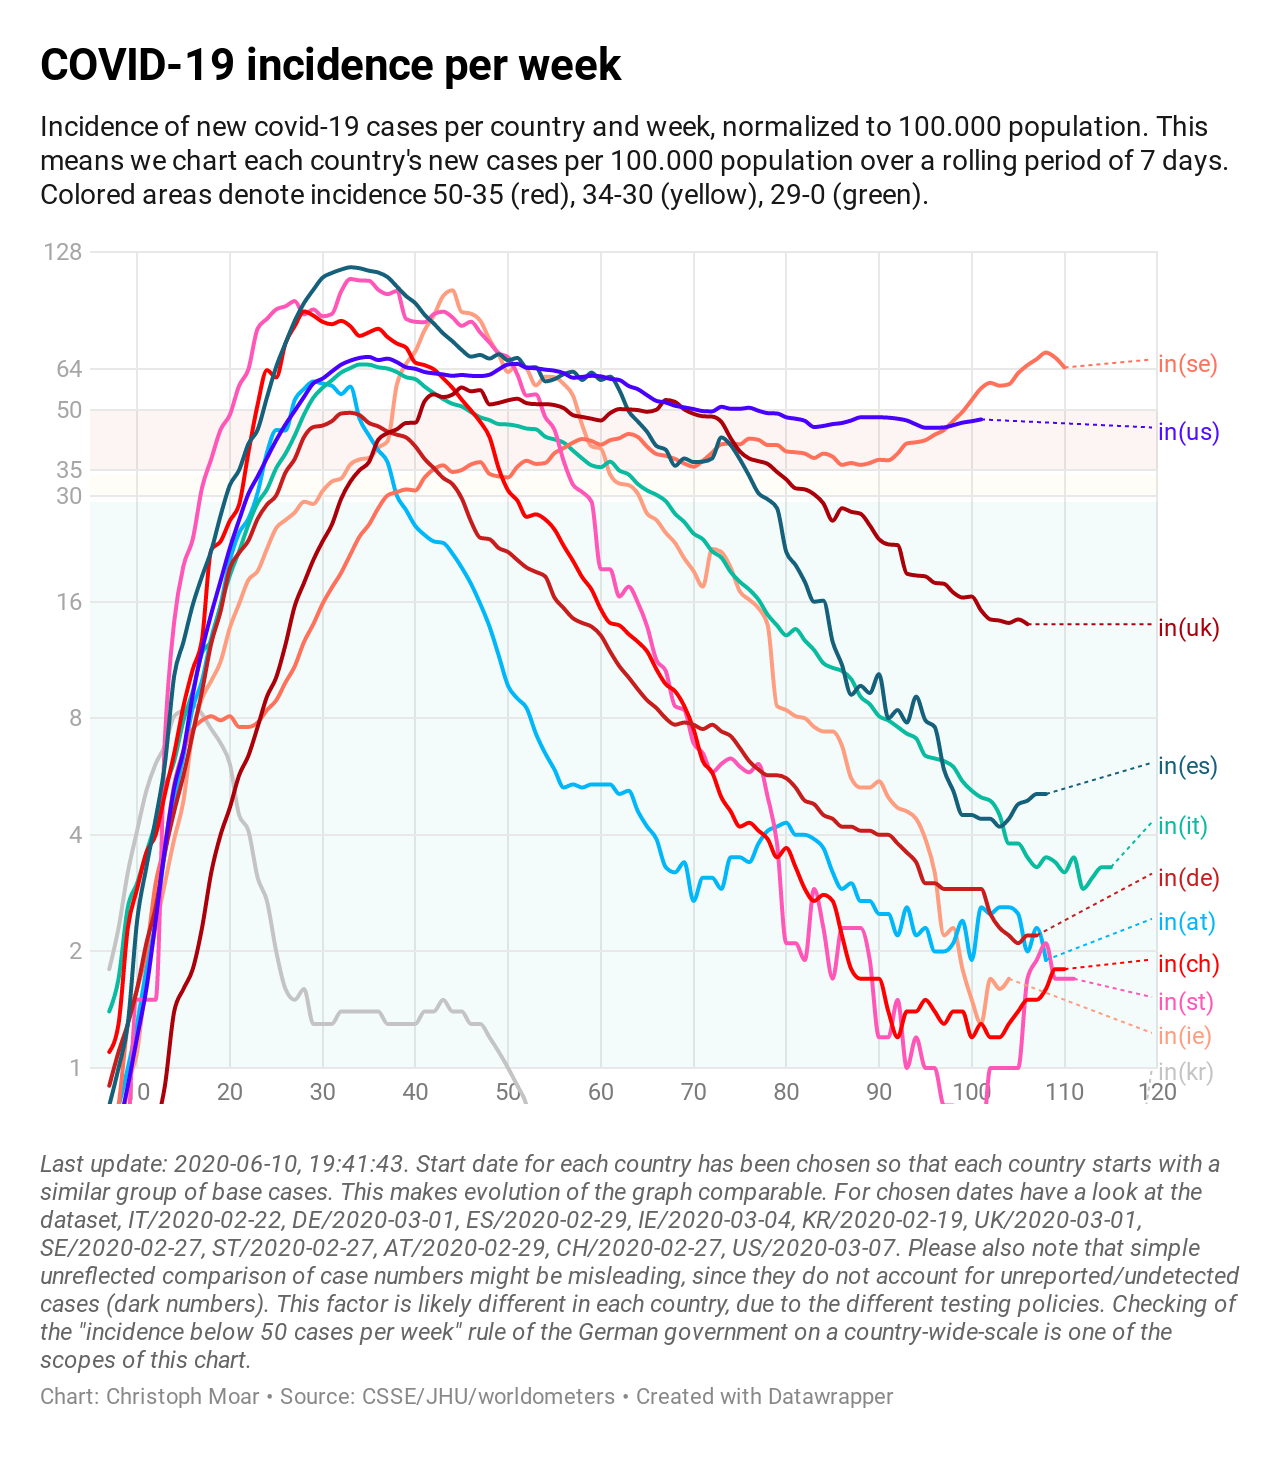
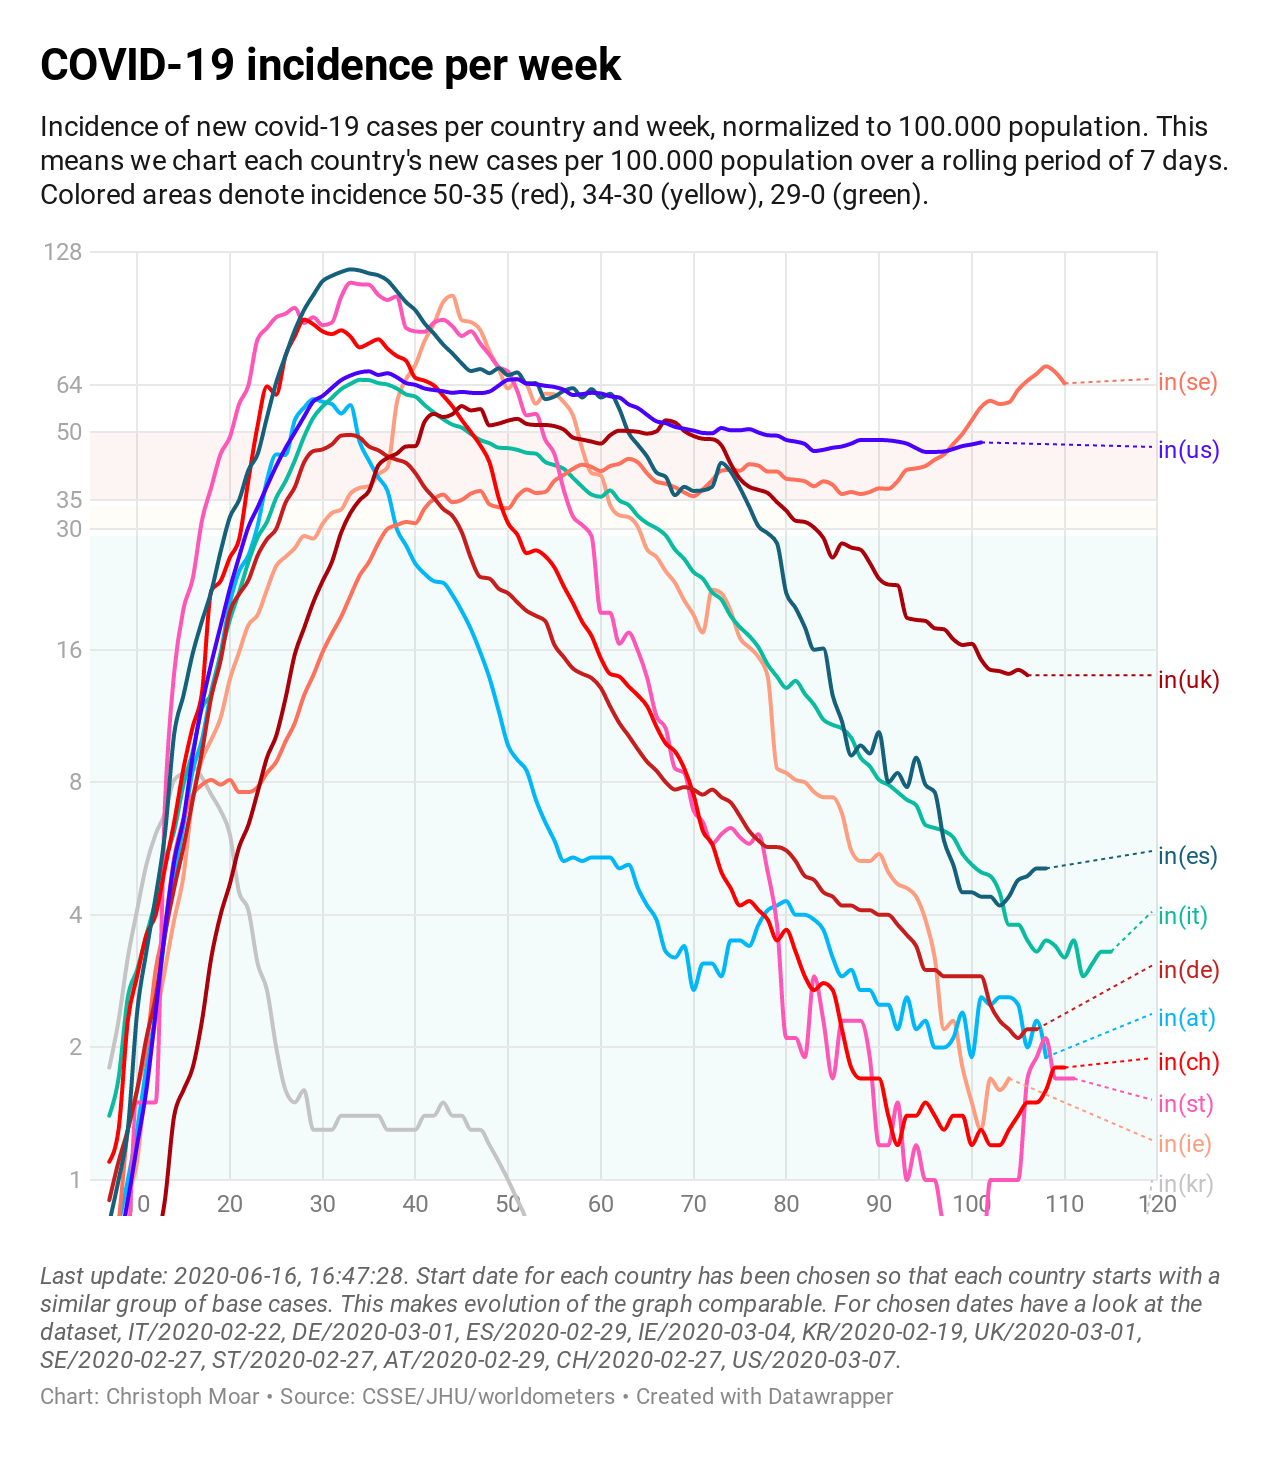
new images

diff --git a/bin/update.js b/bin/update.js
@@ -7,7 +7,6 @@ const text1 = 'Start date for each country has been chosen so that each country 
 const text2 = 'Please also note that comparing total recorded case numbers might be misleading, since they do not account for unreported/undetected cases (dark numbers). This factor is likely different in each country, due to the different testing policies. Comparing slope changes - and not total figures - is the main point in this chart.'
 const text3 = 'This charts the new confirmed cases (nx_avg) of covid-19 vs. the total confirmed cases (tx) to date, normalized to an identical population of 60.3 millions, both on logarithmic scales. When plotted in this way, exponential growth is represented as a straight line that slopes upwards. Notice that almost all countries follow a very similar path of exponential growth. For this approach of visualization, check out details and interactive chart at aatishb.com/covidtrends.'
 const text4 = 'Die grün strichlierte Linie stellt das Verhältnis zwischen den täglichen neuen Fällen (newPositiveTested) und den neu getesteten Personen (newNumberTestedPeople) in Prozent dar, es wird ein gleitender Durchschnitt über vier Tage angewendet. Unter der Annahme unveränderter Testvorgaben (=wer wird getestet) dient diese Darstellung zur Einschätzung wieviel Prozent der neu Getesteten positiv sind. Anders formuliert, man beobachtet dabei relative und nicht absolute Zahlen. Die absoluten Werte unterliegen naturgemäß deutlichen Schwankungen und beinhalten auch die Tests, die an den wieder Gesundeten ausgeführt werden. Die blau strichlierte Linie (newPos/newNumberTests) stellt dasselbe Verhältnis, aber zur Zahl der durchgeführten Tests dar.'
-const text5 = 'Please also note that simple unreflected comparison of case numbers might be misleading, since they do not account for unreported/undetected cases (dark numbers). This factor is likely different in each country, due to the different testing policies. Checking of the "incidence below 50 cases per week" rule of the German government on a country-wide-scale is one of the scopes of this chart.'
 
 const DW_TOKEN = process.env.DW_TOKEN
 
@@ -87,30 +86,30 @@ async function download(url, filename) {
 function main() {
   console.log(`token [${DW_TOKEN}]`)
 
+  update('https://api.datawrapper.de/v3/charts/1Cdh3/data', '../dataset-01/covid19-normalized-noheader.CSV')
   update('https://api.datawrapper.de/v3/charts/njNtn/data', '../dataset-01/covid19-normalized-noheader.CSV')
   update('https://api.datawrapper.de/v3/charts/Zojai/data', '../dataset-01/covid19-normalized-noheader.CSV')
   //updateurl('https://api.datawrapper.de/v3/charts/HWIBU/data', 'https://github.com/abaumg/covid19-bz-scraper/raw/master/data/covid19_bz_detailed.csv', '../dataset-01/covid19_bz_detailed.csv')
   update('https://api.datawrapper.de/v3/charts/HWIBU/data','../dataset-01/covid19_bz_detailed.csv')
   update('https://api.datawrapper.de/v3/charts/4sti7/data', '../dataset-01/covid19-normalized-timeseries.CSV')
-  update('https://api.datawrapper.de/v3/charts/1Cdh3/data', '../dataset-01/covid19-normalized-noheader.CSV')
   
+  timestamp('https://api.datawrapper.de/v3/charts/1Cdh3', `${text1}`)
   timestamp('https://api.datawrapper.de/v3/charts/njNtn', `${text1} ${text2}`)
   timestamp('https://api.datawrapper.de/v3/charts/Zojai', `${text1}`)
   timestamp('https://api.datawrapper.de/v3/charts/HWIBU', `${text4}`)
   timestamp('https://api.datawrapper.de/v3/charts/4sti7', `${text3}`)
-  timestamp('https://api.datawrapper.de/v3/charts/1Cdh3', `${text1} ${text5}`)
   
+  publish('https://api.datawrapper.de/charts/1Cdh3/publish')
   publish('https://api.datawrapper.de/charts/njNtn/publish')
   publish('https://api.datawrapper.de/charts/Zojai/publish')
   publish('https://api.datawrapper.de/charts/HWIBU/publish')
   publish('https://api.datawrapper.de/charts/4sti7/publish')
-  publish('https://api.datawrapper.de/charts/1Cdh3/publish')
   
+  download('https://api.datawrapper.de/v3/charts/1Cdh3/export/png?unit=px&mode=rgb&plain=false&scale=2&borderWidth=40', '../image/1Cdh3-covid-19-incidence-per-week.png')
   download('https://api.datawrapper.de/v3/charts/njNtn/export/png?unit=px&mode=rgb&plain=false&scale=2&borderWidth=40', '../image/njNtn-covid-19-normalized.png')
   download('https://api.datawrapper.de/v3/charts/Zojai/export/png?unit=px&mode=rgb&plain=false&scale=2&borderWidth=40', '../image/Zojai-covid-19-doubling-time.png')
   download('https://api.datawrapper.de/v3/charts/HWIBU/export/png?unit=px&mode=rgb&plain=false&scale=2&borderWidth=40', '../image/HWIBU-covid-19-s-dtirol.png')
   download('https://api.datawrapper.de/v3/charts/4sti7/export/png?unit=px&mode=rgb&plain=false&scale=2&borderWidth=40', '../image/4sti7-covid-19-normalized-averaged-timeseries.png')
-  download('https://api.datawrapper.de/v3/charts/1Cdh3/export/png?unit=px&mode=rgb&plain=false&scale=2&borderWidth=40', '../image/1Cdh3-covid-19-incidence-per-week.png')
 }
 
 main()
